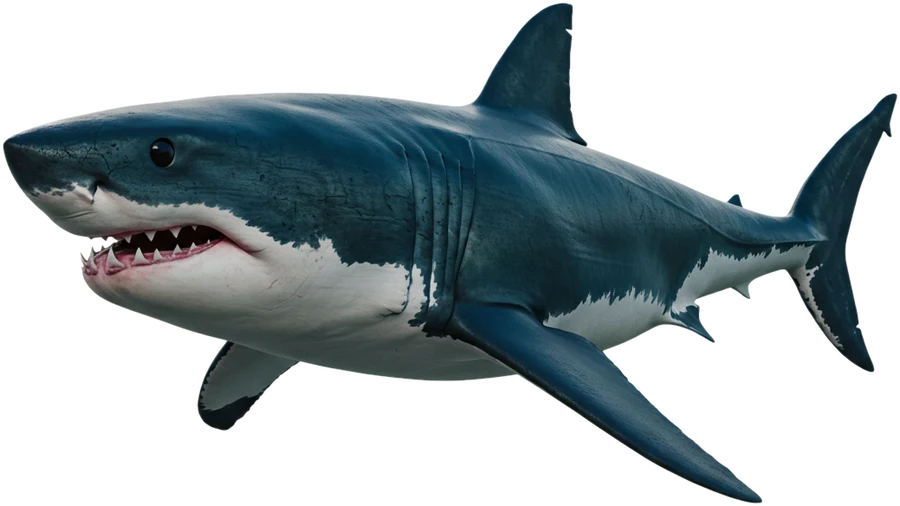
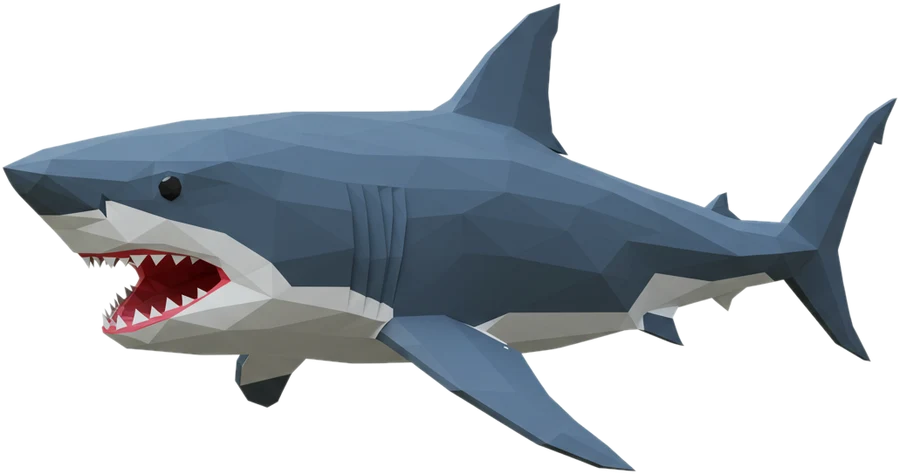
субъекты главной — в фирменном лоу-поли стиле персонажей Океана
Фотореализм заменён: акула и капитан перегенерены в стиле медальонов
рангов (гранёные полигоны, сталь-бирюза, матовый рендер) — одна
визуальная семья с персонажами уровней. Вырезка по цвету углов
(flood-fill с допуском — фон капитана был серым градиентом).
Подписи-шёпоты убраны: прятались за карточками и были шумом.

diff --git a/app/page.tsx b/app/page.tsx
@@ -201,9 +201,6 @@ export default function Home() {
             className="floaty w-full -rotate-[7deg] drop-shadow-[0_30px_45px_rgba(6,24,42,0.35)]"
             style={{ "--float-dur": "7s" } as React.CSSProperties}
           />
-          <p className="mt-2 text-center text-xs font-semibold uppercase tracking-[0.22em] text-navy/45">
-            риски всегда рядом
-          </p>
         </div>
       </section>
 
@@ -223,9 +220,6 @@ export default function Home() {
               alt=""
               className="w-full drop-shadow-[0_26px_38px_rgba(13,43,69,0.3)]"
             />
-            <p className="mt-2 text-center text-xs font-semibold uppercase tracking-[0.22em] text-navy/45">
-              у штурвала — только ты
-            </p>
           </div>
           <div className="mt-12 grid gap-8 md:grid-cols-3">
             {/* тёмные нави-карты на светлой палубе — контраст к фото-карточкам пути */}
